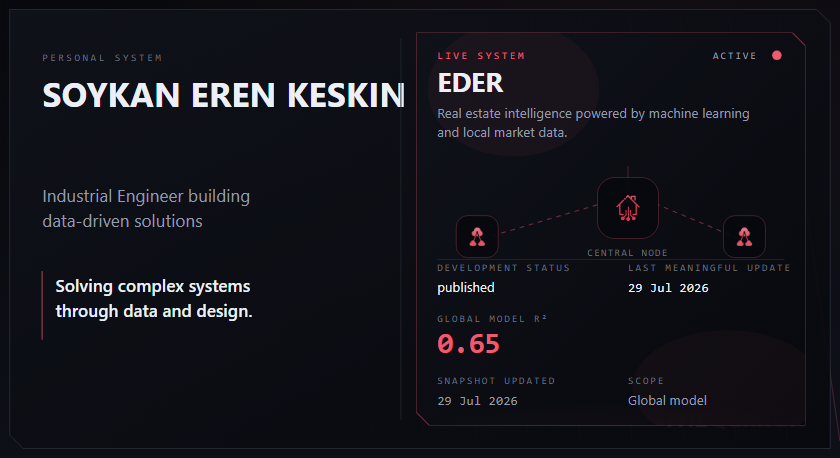
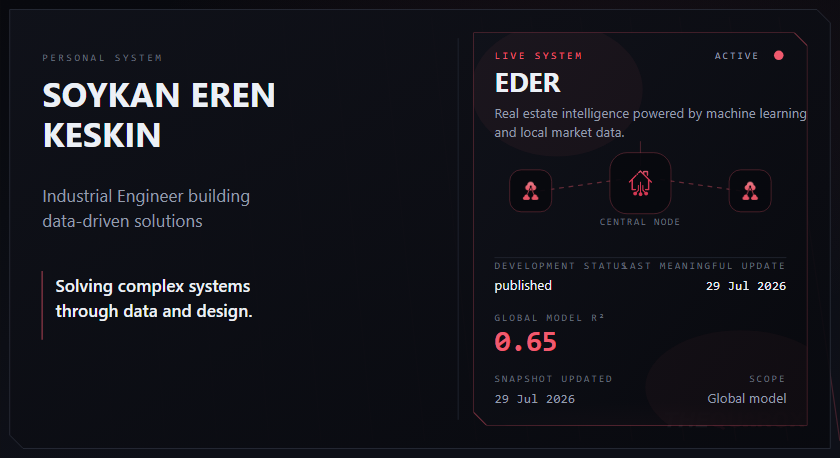
Update SVG assets and improve rendering logic for GitHub profile: Replace existing screenshots with updated versions for hero, readme stack, and work sections. Refactor SVG rendering functions to enhance layout and text handling, ensuring better visual consistency across devices.

diff --git a/lib/profile/svg/hero.ts b/lib/profile/svg/hero.ts
@@ -42,27 +42,37 @@ export function renderHeroCard(data: ProfileData): string {
   const shellH = HERO_HEIGHT - shellY * 2;
 
   const leftX = shellX + 28;
-  const leftW = 360;
-  const dividerX = 420;
-  const hudX = 436;
+  const leftW = 420;
+  // Push divider / HUD right so the identity name never sits under the panel edge.
+  const dividerX = leftX + leftW + 16;
+  const hudX = dividerX + 16;
   const hudY = shellY + 18;
-  const hudW = 408;
+  const hudW = shellX + shellW - 18 - hudX;
   const hudH = shellH - 36;
   const hudPad = 22;
   const contentLeft = hudX + hudPad;
   const contentRight = hudX + hudW - hudPad;
+  const contentMid = (contentLeft + contentRight) / 2;
 
+  // Prefer an explicit two-line break so the name stays dominant without crowding the divider.
+  const nameParts = identity.name.trim().split(/\s+/);
   const nameLines =
-    identity.name.length > 22
-      ? ["SOYKAN EREN", "KESKIN"]
-      : [identity.name];
+    nameParts.length >= 3
+      ? [`${nameParts[0]} ${nameParts[1]}`, nameParts.slice(2).join(" ")]
+      : nameParts.length === 2
+        ? [nameParts[0], nameParts[1]]
+        : [identity.name];
 
   const defs = `
     ${clipRect("clip-hero-hud", hudX, hudY, hudW, hudH)}
   `;
 
-  const nodeCy = hudY + 188;
-  const metaTop = hudY + 250;
+  // Center the node network between description and metadata.
+  const nodeCy = hudY + 162;
+  const metaTop = hudY + 248;
+  const nodeSide = 44;
+  const houseSize = 64;
+  const sideNodeY = nodeCy - 18;
 
   const body = `
     ${flowLines(HERO_HEIGHT)}
@@ -171,15 +181,15 @@ export function renderHeroCard(data: ProfileData): string {
       })}
 
       <!-- Node network -->
-      <line x1="${contentLeft + 48}" y1="${nodeCy + 28}" x2="${contentLeft + 170}" y2="${nodeCy - 8}" stroke="${COLORS.coral}" stroke-opacity="0.4" stroke-width="1.2" stroke-dasharray="5 5"/>
-      <line x1="${contentRight - 48}" y1="${nodeCy + 28}" x2="${contentLeft + 230}" y2="${nodeCy - 8}" stroke="${COLORS.coral}" stroke-opacity="0.4" stroke-width="1.2" stroke-dasharray="5 5"/>
-      <line x1="${contentLeft + 200}" y1="${nodeCy - 48}" x2="${contentLeft + 200}" y2="${nodeCy - 22}" stroke="${COLORS.coral}" stroke-opacity="0.3" stroke-width="1"/>
-      ${quaroxNodesImage(contentLeft + 20, nodeCy + 4, 44, "hero-quarox-node")}
-      ${quaroxNodesImage(contentRight - 64, nodeCy + 4, 44, "hero-quarox-node-b")}
-      ${ederHouseImage(contentLeft + 168, nodeCy - 36, 64, "hero-eder-house")}
+      <line x1="${contentLeft + 48}" y1="${sideNodeY + 22}" x2="${contentMid - 20}" y2="${nodeCy - 8}" stroke="${COLORS.coral}" stroke-opacity="0.4" stroke-width="1.2" stroke-dasharray="5 5"/>
+      <line x1="${contentRight - 48}" y1="${sideNodeY + 22}" x2="${contentMid + 20}" y2="${nodeCy - 8}" stroke="${COLORS.coral}" stroke-opacity="0.4" stroke-width="1.2" stroke-dasharray="5 5"/>
+      <line x1="${contentMid}" y1="${nodeCy - 48}" x2="${contentMid}" y2="${nodeCy - 22}" stroke="${COLORS.coral}" stroke-opacity="0.3" stroke-width="1"/>
+      ${quaroxNodesImage(contentLeft + 16, sideNodeY, nodeSide, "hero-quarox-node")}
+      ${quaroxNodesImage(contentRight - nodeSide - 16, sideNodeY, nodeSide, "hero-quarox-node-b")}
+      ${ederHouseImage(contentMid - houseSize / 2, nodeCy - 36, houseSize, "hero-eder-house")}
       <text ${textAttrs({
-        x: contentLeft + 200,
-        y: nodeCy + 46,
+        x: contentMid,
+        y: nodeCy + 40,
         size: 10,
         fill: COLORS.inkFaint,
         mono: true,
@@ -200,12 +210,13 @@ export function renderHeroCard(data: ProfileData): string {
         id: "hero-status-label",
       })}>DEVELOPMENT STATUS</text>
       <text ${textAttrs({
-        x: contentLeft + 200,
+        x: contentRight,
         y: metaTop,
         size: GP_TYPE.eyebrow,
         fill: COLORS.inkFaint,
         mono: true,
         letterSpacing: GP_TRACKING.label,
+        anchor: "end",
         id: "hero-last-update-label",
       })}>LAST MEANINGFUL UPDATE</text>
       <text ${textAttrs({
@@ -216,11 +227,12 @@ export function renderHeroCard(data: ProfileData): string {
         id: "hero-status-value",
       })}>${escapeXml(status)}</text>
       <text ${textAttrs({
-        x: contentLeft + 200,
+        x: contentRight,
         y: metaTop + 22,
         size: GP_TYPE.bodySm,
         fill: COLORS.ink,
         mono: true,
+        anchor: "end",
         id: "hero-last-update-value",
       })}>${escapeXml(updated)}</text>
 
@@ -252,12 +264,13 @@ export function renderHeroCard(data: ProfileData): string {
         letterSpacing: GP_TRACKING.label,
       })}>SNAPSHOT UPDATED</text>
       <text ${textAttrs({
-        x: contentLeft + 200,
+        x: contentRight,
         y: metaTop + 118,
         size: GP_TYPE.eyebrow,
         fill: COLORS.inkFaint,
         mono: true,
         letterSpacing: GP_TRACKING.label,
+        anchor: "end",
       })}>SCOPE</text>
       <text ${textAttrs({
         x: contentLeft,
@@ -268,16 +281,15 @@ export function renderHeroCard(data: ProfileData): string {
         id: "hero-snapshot-value",
       })}>${escapeXml(snapshot)}</text>
       <text ${textAttrs({
-        x: contentLeft + 200,
+        x: contentRight,
         y: metaTop + 140,
         size: GP_TYPE.bodySm,
         fill: COLORS.inkMuted,
+        anchor: "end",
         id: "hero-scope-value",
       })}>${escapeXml(scope)}</text>
     </g>
   `;
-
-  void leftW;
 
   return svgRoot({
     height: HERO_HEIGHT,

diff --git a/lib/profile/svg/work.ts b/lib/profile/svg/work.ts
@@ -113,9 +113,11 @@ function projectCard(opts: {
   latestUpdate: string | null;
 }): { svg: string; defs: string; h: number } {
   const emphasized = Boolean(opts.project.emphasized);
-  const h = emphasized ? 200 : 156;
+  const h = emphasized ? 220 : 156;
   const clipId = `clip-project-${opts.project.id}`;
   const pad = 22;
+  // Keep metric clear of the cut-corner + card edge.
+  const metricPad = GP_CUT.lg + 36;
   const leftX = CARD_X + pad;
   const arch = opts.project.architecture.slice(0, 4);
   const desc = truncate(
@@ -149,11 +151,14 @@ function projectCard(opts: {
   if (emphasized) {
     const r2 = formatSvgR2(opts.globalR2);
     const updated = formatSvgShortDate(opts.latestUpdate);
+    const metricRight = CARD_X + CARD_W - metricPad;
+    const metricLabelY = opts.y + h - 48;
+    const metricValueY = opts.y + h - 28;
     metrics = `
-      <line x1="${leftX}" y1="${opts.y + 152}" x2="${CARD_X + CARD_W - pad}" y2="${opts.y + 152}" stroke="${COLORS.borderSubtle}" stroke-width="1"/>
+      <line x1="${leftX}" y1="${opts.y + 150}" x2="${metricRight}" y2="${opts.y + 150}" stroke="${COLORS.borderSubtle}" stroke-width="1"/>
       <text ${textAttrs({
         x: leftX,
-        y: opts.y + 172,
+        y: metricLabelY,
         size: GP_TYPE.eyebrow,
         fill: COLORS.inkFaint,
         mono: true,
@@ -161,14 +166,14 @@ function projectCard(opts: {
       })}>LAST MEANINGFUL UPDATE</text>
       <text ${textAttrs({
         x: leftX,
-        y: opts.y + 190,
+        y: metricValueY,
         size: GP_TYPE.bodySm,
         fill: COLORS.inkMuted,
         mono: true,
       })}>${escapeXml(updated)}</text>
       <text ${textAttrs({
-        x: CARD_X + CARD_W - pad,
-        y: opts.y + 172,
+        x: metricRight,
+        y: metricLabelY,
         size: GP_TYPE.eyebrow,
         fill: COLORS.inkFaint,
         mono: true,
@@ -179,9 +184,9 @@ function projectCard(opts: {
         (opts.project.metricLabel || "GLOBAL MODEL R²").toUpperCase()
       )}</text>
       <text ${textAttrs({
-        x: CARD_X + CARD_W - pad,
-        y: opts.y + 196,
-        size: r2.available ? 26 : GP_TYPE.bodySm,
+        x: metricRight,
+        y: metricValueY,
+        size: r2.available ? 20 : GP_TYPE.bodySm,
         fill: r2.available ? COLORS.coral : COLORS.inkMuted,
         mono: true,
         weight: 650,
